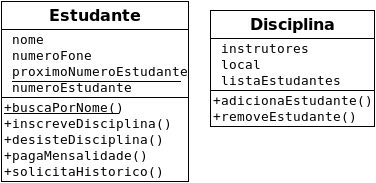
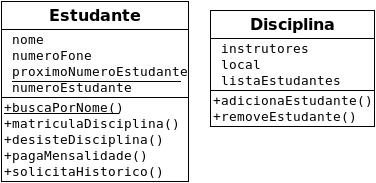
Corrigindo erros.

Changed region(s): [[0.0293, 0.6284, 0.4681, 0.7104]]

diff --git a/oo_concepts.tex b/oo_concepts.tex
@@ -41,13 +41,6 @@
 }
 \local{Brasil}
 \data{2018, v-0.0.0}
-% ---
-
-% ---
-% Configurações de aparência do PDF final
-
-% alterando o aspecto da cor azul
-%\definecolor{blue}{RGB}{41,5,195}
 
 % informações do PDF
 \makeatletter
@@ -57,7 +50,7 @@
 %		pdfauthor={\@author},
 %    		pdfsubject={Conceitos básicos de OO},
 %	    	pdfcreator={PDFLaTeX with abnTeX2},
-%		pdfkeywords={OO}{Scott Ambler}{UML}, 
+%		pdfkeywords={OO}{Scott Ambler}{UML}{Java EE}, 
 %		colorlinks=true,       		% false: boxed links; true: colored links
 %    		linkcolor=blue,         % color of internal links
 %    		citecolor=blue,        	% color of links to bibliography
@@ -69,18 +62,15 @@
 % --- 
 
 \makeindex
-% ---
 
-% ---
 % Altera as margens padrões
 % ---
 \setlrmarginsandblock{2cm}{2cm}{*}
 \setulmarginsandblock{2cm}{2cm}{*}
 \checkandfixthelayout
-% ---
 
 % O tamanho do parágrafo é dado por:
-\setlength{\parindent}{1.3cm}
+\setlength{\parindent}{1.0cm}
 
 % Controle do espaçamento entre um parágrafo e outro:
 \setlength{\parskip}{0.2cm}  % tente também \onelineskip
@@ -99,10 +89,11 @@
 % resumo em português
 \begin{resumoumacoluna}
 Este texto objetiva introduzir alguns dos principais conceitos da tecnologia Orientada a Objetos, OO.
-O texto é fortemente baseado no capítulo 2 do livro \cite{Ambler:TOP:3ed}, com acréscimos baseados em \cite{uml:j2ee}.
+O texto é fortemente baseado no capítulo 2 do livro \cite{Ambler:TOP:3ed}, com acréscimos baseados em \cite{uml:j2ee} e outros textos.
+
 \vspace{\onelineskip}
 \noindent
- \textbf{Palavras-chave}: OO. UML.
+ \textbf{Palavras-chave}: OO. UML. JEE.
 \end{resumoumacoluna}
 
 \textual
@@ -110,7 +101,7 @@ O texto é fortemente baseado no capítulo 2 do livro \cite{Ambler:TOP:3ed}, com
 \section{Introdução}
 \addcontentsline{toc}{section}{Introdução}
 
-Você precisa entender os conceitos de orientação a objetos, OO, antes de aplicá-los com sucesso no desenvolvimento de sistemas. Porque as técnicas OO emergiram, em parte, de áreas da engenharia de software, inteligência artificial e modelagem da informação, muitas dessas técnicas podem parecer já familiares. Não permita que isto o torne complacente -- você ainda terá de compreender vários conceitos novos.
+Você precisa entender os conceitos de orientação a objetos, OO, antes de aplicá-los com sucesso no desenvolvimento de sistemas. Como as técnicas OO emergiram, em parte, de áreas da engenharia de software, inteligência artificial e modelagem da informação, muitas dessas técnicas podem parecer já familiares. Não permita que isto o torne complacente -- você ainda terá de compreender vários conceitos novos.
 
 Neste trabalho veremos:
 
@@ -132,12 +123,12 @@ Neste trabalho veremos:
 \end{itemize}
 
 \subsection{Uma rápida introdução aos conceitos de OO}
-Veremos nesta seção os conceitos fundamentais das técnicas de desenvolvimento OO. Programadores experientes com tecnologias estruturadas já conhecem alguns destes conceitos, outros são novos. Por exemplo, conceitos que estão no núcleo de OO como encapsulamento, acoplamento e coesão vêm da engenharia de software. Estes conceitos são importantes porque eles revelam boas práticas de projeto independentemente da tecnologia que está sendo usada. Não se engane, entretanto, não é porque você já viu alguns dos conceitos e os pratica que você já está fazendo OO, você apenas está realizando bons projetos. Enquanto fazer bons projetos é uma grande parte de orientação a objetos, ainda há muito mais.
+Veremos nesta seção os conceitos fundamentais das técnicas de desenvolvimento OO. Programadores experientes com tecnologias estruturadas já conhecem alguns destes conceitos, outros são novos. Por exemplo, conceitos que estão no núcleo de OO como encapsulamento, acoplamento e coesão vêm da engenharia de software. Estes conceitos são importantes porque eles revelam boas práticas de projeto independentemente da tecnologia que está sendo usada. Não se engane, entretanto, não é porque você já viu alguns dos conceitos e os pratica que você já está fazendo OO, entretanto, você já está realizando bons projetos. Enquanto fazer bons projetos é uma grande parte da orientação a objetos, ainda há muito mais.
 
 Conceitos de OO parecem muito simples. Não se engane. Os conceito em que se baseiam as técnicas estruturadas também pareciam simples, mas todos nós, programadores experientes, sabemos que o desenvolvimento estruturado é na verdade difícil. Assim como havia mais do que uns poucos conceitos simples no paradigma estruturado, há mais coisas no paradigma OO. Assim como leva tempo para se tornar bom no desenvolvimento estruturado, também leva tempo para se tornar um bom desenvolvedor OO. Para lhe dar um gostinho do conteúdo deste artigo, os conceitos e termos que serão apresentados são resumidos na tabela \ref{tab:concOO}.
 
 \begin{longtable}[l]{p{4.6cm}p{11.1cm}}
-\caption[Conceitos OO]{Um resumo dos conceitos e termos da Orientação a Objetos}
+\caption[Conceitos OO]{Conceitos e termos da Orientação a Objetos}
 \label{tab:concOO}\\
 
 \multicolumn{1}{c}{\textbf{Termo}} & \multicolumn{1}{c}{\textbf{Descrição}} \\
@@ -172,11 +163,11 @@ Colaboração & Classes que trabalham juntas (colaboram) para cumprir as suas re
 Componente & Uma unidade coesa de funcionalidade que pode ser desenvolvida, entregue e composta por outros componentes para construir uma unidade maior\\
 Composição & Uma forma forte de agregação na qual o \emph{todo} é completamente responsável pelas suas partes e cada objeto \emph{parte} está associado apenas a um objeto \emph{completo}\\
 Encapsulamento & O agrupamento de conceitos relacionados num único item, tal como uma classe ou um componente\\
-Estereótipo & Um uso comum de  um elemento de modelagem\\
-Herança & Relacionamento definido por \emph{é um} ou \emph{é como}\\
+Estereótipo & Um uso comum de um elemento de modelagem\\
+Herança & Relacionamento definido por \emph{é um} ou \emph{é como} (ou \emph{parece com}\\
 Herança múltipla & A herança direta de mais de uma classe\\
 Herança simples & A herança direta de apenas uma classe\\
-Hierárquia de herança & Um conjunto de classes relacionadas por herança\\
+Hierárquia de heranças & Um conjunto de classes relacionadas por heranças\\
 Instância & Um objeto que é um exemplo de uma classe específica\\
 Instanciar & Criar objetos a partir da definição de classes\\
 Interface & Uma coleção de uma ou mais assinaturas de operações que define um conjunto coeso de comportamentos\\
@@ -186,13 +177,13 @@ Método & Um processo implementado por uma classe que realiza uma ação de valo
 Objeto & Uma pessoa, lugar, coisa, evento, conceito, tela ou relatório baseado numa definição de classe\\
 Objeto persistente & Um objeto salvo numa memória permanente\\
 Objeto transitório & Um objeto não salvo numa memória permanente\\
-Ocultação de informação & A restrição a acesso externo de atributos\\
+Ocultação de informação & A restrição ao acesso externo de atributos\\
 Opcionalidade & O conceito de \emph{Você precisa ter isto?}\\
 Padrão & Uma solução reusável para um problema comum levando em conta forças relevantes\\
 Persistência & O armazenamento de objetos em memória permanente, por exemplo, em arquivos, bancos de dados, etc.\\
 Polimorfismo & A capacidade de diferentes objetos responderem a uma mesma mensagem de maneiras diferentes, permite que um objeto interaja com um outro sem conhecer o seu tipo exato\\
 Propriedade & Em UML 2, um valor nomeado (com nome), por exemplo, atributos e associações, inclusive composição, denotando uma característica de um elemento (tal como, uma classe, ou um componente). Em C\#, a combinação de um atributo com seus getter e setter \\
-Refatoração & Modificar a implementação e/ou a definição de componentes sem afetar outros componentes \\
+Refatoração & Modificar a implementação e/ou a definição de componentes sem afetar outros componentes de um sistema já em funcionamento\\
 Sobreescrita & Redefinir atributos e/ou métodos em subclasses tais que eles sejam diferentes da definição na superclasse\\
 Subclassse & Uma classe que herda de uma outra\\
 Superclase & Uma classe da qual uma outra herda.\\
@@ -215,7 +206,9 @@ Entender os 14 diagramas de UML 2.5 ilustrados na figura \ref{fig:uml14dia} e re
 
 \begin{description}
 \item[\emph{Diagramas de Comportamento}:] Este é o tipo de diagrama que representa características comportamentais de um sistema ou processo de negócio. Isto inclui diagramas de atividade, máquina de estado e caso de uso, assim como os 4 diagramas de interação.
+
 \item[\emph{Diagrams de Interação}:] Este é um subconjunto de diagramas comportamentais que enfatizam a interação entre objetos. Isto inclui os diagramas de comunicação, visão simplificada de interação, sequência e temporização.
+
 \item[\emph{Diagramas Estruturais}:] Este tipo de diagrama representa os elementos estáticos de uma especificação que não mudam com o tempo. Isto inclui os diagramas de classe, estrutura composta, componente, distribuição (\textit{deployment}), objetos, pacotes e perfil.
 \end{description}
 
@@ -235,7 +228,7 @@ Entender os 14 diagramas de UML 2.5 ilustrados na figura \ref{fig:uml14dia} e re
 \endfirsthead
 
 \multicolumn{2}{c}{{\bfseries \tablename\ \thetable{} -- continuação da página anterior}} \\
-\multicolumn{1}{c}{\textbf{Termo}} & \multicolumn{1}{c}{\textbf{Descrição}} \\
+\multicolumn{1}{c}{\textbf{Diagrama}} & \multicolumn{1}{c}{\textbf{Descrição}} \\
 \midrule
 \endhead
 
@@ -297,7 +290,7 @@ Quando você define uma classe, você deve definir os atributos que ela tem, ass
 \end{center}
 \end{figure}
 
-A definição de um método é mais simples: você define a lógica para ele, do mesmo modo que você codifica uma função ou um procedimento. Estou usando o termo \emph{método} diferentemente do que a UML usa -- o que estou mostrando, na verdade, são as operações da classe e os métodos são as implementações dessas operações. Esta visão de método é consequência de ter programado bastante em Smalltalk e Smalltalk usa o termo método dessa maneira. Não se preocupe com isto, a terminologia de objetos é notoriamente inexata. Mais para a frente detalharei melhor a especificação de métodos. Ao vermos o conceito de colaboração, você verá que colaboração é feita exclusivamente através de métodos. Por ora, retenha que métodos fazem estas duas coisas: eles retornam um valor e/ou eles fazem alguma coisa, isto é, eles provocam um efeito de borda.
+A definição de um método é mais simples: você define a lógica para ele, do mesmo modo que você codifica uma função ou um procedimento. O termo \emph{método} é usado diferentemente de como a UML usa -- o que está sendo mostrado, na verdade, são as operações da classe e os métodos são as implementações dessas operações. Esta visão de método é consequência da influência do Smalltalk, que usa o termo método dessa maneira. Não se preocupe com isto, a terminologia de objetos é notoriamente inexata. Mais para a frente detalharemos melhor a especificação de métodos. Ao vermos o conceito de colaboração, você verá que colaboração é feita exclusivamente através de métodos. Por ora, retenha que métodos fazem estas duas coisas: eles retornam um valor e/ou eles fazem alguma coisa, isto é, eles provocam um efeito de borda. Em computação, efeito de borda (\emph{side effect}) significa que uma modificação é realizada por este método na memória e esta modificação é visível por outros métodos, isto é, fora deste método.
 
 \begin{figure}[h]
 \begin{center}
@@ -315,11 +308,11 @@ A definição de um método é mais simples: você define a lógica para ele, do
 
 Na figura \ref{fig:obj2}, você vê dois tipos diferentes de objetos: um \textit{estudante} e uma \textit{disciplina}. Ambos objetos, sabem e fazem algumas coisas e você deseja registrar isto nos seus modelos, como você pode observar na figura \ref{fig:class1}. Estou usando a notação de classe com 3 seções neste caso: a seção do topo para o nome, a seção do meio para a lista dos atributos e a seção de baixo lista os métodos.
 
-A figura \ref{fig:class1} expõe 2 tipos diferentes de atributos: atributos de instância que são aplicáveis a um único objeto e atributos estáticos que são apicáveis a todas as instâncias de uma classe. Atributos estáticos têm o nome sublinhado, atributos de instância não são sublinhados. Por exemplo, \emph{nome} é um atributo de instância na classe Estudante. Cada estudante individual tem um nome, por exemplo, um estudante tem como nome ``José da Silva'', enquanto uma outra estudante pode ter o nome ``Maria de Oliveira''. Pode até acontecer de dois estudantes diferentes terem o mesmo nome, embora sejam duas pessoas diferentes.
+A figura \ref{fig:class1} expõe 2 tipos diferentes de atributos: atributos de instância que são aplicáveis a um único objeto e atributos estáticos que são aplicáveis a todas as instâncias de uma classe. Atributos estáticos têm o nome sublinhado, atributos de instância não são sublinhados. Por exemplo, \emph{nome} é um atributo de instância na classe Estudante. Cada estudante individual tem um nome, por exemplo, um estudante tem como nome ``José da Silva'', enquanto uma outra estudante pode ter o nome ``Maria de Oliveira''. Pode até acontecer de dois estudantes diferentes terem o mesmo nome, embora sejam duas pessoas diferentes.
 
 Por outro lado, \emph{proximoNumeroEstudante} é um atributo estático (também chamado de atributo da classe) que é aplicável à classe Estudante, não especificamente a uma instância determinada. Este atributo é usado para guardar qual é o valor que será usado como número de estudante pelo próximo estudante a ser cadastrado. Quando um novo estudante ingressa na escola, seu número de estudante é dado pelo valor atual de \emph{proximoNumeroEstudante}, que será incrementado para garantir que o número de todos os estudantes é único.
 
-De modo similar, existe o conceito de método de instância e método estático (ou de classe): Métodos de instância operam sobre uma única instância, enquanto métodos estáticos operam potencialmente sobre \textit{todas} as instâncias de uma classe. \footnote{Um método estático não precisa de uma instância para operar, então ele pode ser executado mesmo se nenhuma instância ainda foi criada. Outro cuidado que novatos devem ter, é que na implementação de um método de classe não é possível acessar um atributo de instância, pois ele pode não existir, ou podem haver múltiplos deles, um para cada instância.} Na figura \ref{fig:class1}, veja que na classe \emph{Estudante} os métodos \emph{inscreveDisciplina} e \emph{desisteDisciplina} são métodos de instância, coisas que um estudante individual faria. Ela também tem um método estático \emph{buscaPorNome}, que fornece o comportamento de procurar os estudantes cujo nome atendem um critério de busca, é um método que opera sobre todas as instâncias da classe.
+De modo similar, existe o conceito de método de instância e método estático (ou de classe): Métodos de instância operam sobre uma única instância, enquanto métodos estáticos operam potencialmente sobre \textit{todas} as instâncias de uma classe. \footnote{Um método estático não precisa de uma instância para operar, então ele pode ser executado mesmo se nenhuma instância ainda foi criada. Outro cuidado que novatos devem ter, é que na implementação de um método de classe não é possível acessar um atributo de instância, pois ele pode não existir, ou podem haver múltiplos deles, um para cada instância.} Na figura \ref{fig:class1}, veja que na classe \emph{Estudante} os métodos \emph{matriculaDisciplina} e \emph{desisteDisciplina} são métodos de instância, coisas que um estudante individual faria. Ela também tem um método estático \emph{buscaPorNome}, que fornece o comportamento de procurar os estudantes cujo nome atendem um critério de busca, é um método que opera sobre todas as instâncias da classe.
 
 \section{Abstração, Encapsulamento e Ocultação de Informação}
 
@@ -345,13 +338,13 @@ Para simplificar a manutenção de suas aplicações, você quer restringir o ac
 
 \section{Herança}
 
-Similaridades sempre existem entre classes diferentes. Duas ou mais classes frequentemente compartilham os mesmos atributos e/ou mesmos métodos. Porque você não quer ter de reescrever o mesmo código repetidas vezes, você deseja um mecanismo que tire vantagem destas semelhanças. Herança é este mecanismo. Herança modela os relacionamentos" é um" e "parece com", o que permite que você reuse dados e códigos existentes facilmente.
+Similaridades sempre existem entre classes diferentes. Duas ou mais classes frequentemente compartilham os mesmos atributos e/ou mesmos métodos. Porque você não quer ter de reescrever o mesmo código repetidas vezes, você deseja um mecanismo que tire vantagem destas semelhanças. Herança é este mecanismo. Herança modela os relacionamentos ``é um'' e ``é como'', o que permite que você reuse dados e códigos existentes facilmente.
 
-Por exemplo, estudantes têmn nomes, endereços e números de telefone e eles dirigem veículos. Ao mesmo tempo, professores também têm nomes, endereços e números de telefones e dirigem veículos. Sem dúvida, você pode desenvolver as classes para estudantes e professores e fazê-las executarem. De fato, você poderia até desenvolver a classe \emph{Estudante} primeiro e, quando ela estiver rodando, fazer uma cópia dela, chamá-la de \emph{Professor} e fazer as modificações necessárias. Enquanto, esta é uma maneira muito direta de resolver o problema, ela não é perfeita. E se houver um erro no código original do estudante? Agora, você tem de corrigir o erro em dois lugares, o dobro do trabalho. O que acontece se você precisar mudar a maneira de lidar com o nome, digamos que no lugar de ter no máximo 30 caracteres, precisa de 40 caracteres? Agora, você tem de fazer a mesma modificação em dois lugares, o que é chato, besta e custoso (emtermos de tempo). Não seria bom se só tivesse uma cópia do código para desenvolver e fazer manutenção?
+Por exemplo, estudantes têm nomes, endereços e números de telefone e eles dirigem veículos. Ao mesmo tempo, professores também têm nomes, endereços e números de telefones e dirigem veículos. Sem dúvida, você pode desenvolver as classes para estudantes e professores e fazê-las executarem. De fato, você poderia até desenvolver a classe \emph{Estudante} primeiro e, quando ela estiver rodando, fazer uma cópia dela, chamá-la de \emph{Professor} e fazer as modificações necessárias. Enquanto, esta é uma maneira muito direta de resolver o problema, ela não é perfeita. E se houver um erro no código original do estudante? Agora, você tem de corrigir o erro em dois lugares, o dobro do trabalho. O que acontece se você precisar mudar a maneira de lidar com o nome, digamos que no lugar de ter no máximo 30 caracteres, precisa de 40 caracteres? Agora, você tem de fazer a mesma modificação em dois lugares, o que é chato, besta e custoso (emtermos de tempo). Não seria bom se só tivesse uma cópia do código para desenvolver e fazer manutenção?
 
 Isto é exatamente o que a herança se propõe a fazer. Com herança, você define uma nova classe que encapsula as similaridades entre os alunos e professores. Esta nova classe teria os atributos \emph{nome}, \emph{endereço} e \emph{numeroTelefone} e o método \emph{dirigeVeiculo}. Como você precisa dar nome a todas as suas classes, você precisa se perguntar o que esta coleção de dados e funcionalidade descrevem. Neste caso, acredito que o nome \emph{Pessoa} cabe bem.
 
-Quando você tiver a classe \emph{Pessoa} definida, você fará com que \emph{Estudante} e \emph{Professor} herdem dela. Você pode dizer que \emph{Pessoa} é a superclasse de \emph{Estudante} e \emph{Professor} e que \emph{Estudante} e \emph{Professor} são subclasses de \emph{Pessoa}. Tudo que uma superclasse sabe ou faz, a subclasse sabe ou faz sem que seja necessário escrever mais código. Na verdade, para este exemplo, você teria de escrever duas linhas de código, uma dizendo que \emph{Estudante} é subclasse de \emph{Pessoa} e outra dizendo que \emph{Professor} é uma subclasse de \emph{Pessoa}. Porque \emph{Pessoa} tem um nome, endereço e número de telefone, ambos, \emph{Estudante} e \emph{Professor} também têm estes atributos. Porque \emph{Pessoa} ter a capacidade de dirigir um veículo, as classes \emph{Estudante} e \emph{Professor} também têm.
+Quando você tiver a classe \emph{Pessoa} definida, você fará com que \emph{Estudante} e \emph{Professor} herdem dela. Você pode dizer que \emph{Pessoa} é a superclasse de \emph{Estudante} e \emph{Professor} e que \emph{Estudante} e \emph{Professor} são subclasses de \emph{Pessoa}. Tudo que uma superclasse sabe ou faz, a subclasse sabe ou faz sem que seja necessário escrever mais código. Na verdade, para este exemplo, você teria de escrever duas linhas de código, uma dizendo que \emph{Estudante} é subclasse de \emph{Pessoa} e outra dizendo que \emph{Professor} é uma subclasse de \emph{Pessoa}. Porque \emph{Pessoa} tem um nome, endereço e número de telefone, ambos, \emph{Estudante} e \emph{Professor}, também, têm estes atributos. Porque \emph{Pessoa} tem a capacidade de dirigir um veículo, as classes \emph{Estudante} e \emph{Professor} também têm.
 
 \subsection{Modelagem de Herança}
 
@@ -384,9 +377,9 @@ As dicas e técnicas a seguir devem lhe ajudar a aplicar hereditariedade de mane
 
 \item[Siga a regra da sentença:] Uma das frases a seguir deve ter sentido: ``Uma subclasse é um tipo da superclasse'' ou ``Uma subclasse é como uma superclasse''. Por exemplo, faz sentido dizer que um estudante é um tipo de pessoa e um dragão é como um pássaro. Não faz sentido dizer que um estudante é um tipo de veículo, ou é como um veículo, então, a classe \emph{Estudante} provavelmente não deve herdar de \emph{Veiculo}. Se nenhuma das sentenças faz sentido, então você deve ter encontrado um relacionamento de composição ou de associação.
 
-\item[Evite herança de implementação:] Desenvolvedores novatos na orientação a objetos têm uma tendência a errar na aplicação da herança, em geral num esforço para reusar tanto quanto possível (uma boa motivação). Herança é, geralmente, o conceito mais excitante do repertório de objetos deles, então eles o usam tanto quanto podem. O problema é com o que chama se de herança de implementação ou de conveniência: A aplicação da herança quando a regra da sentença não se aplica e a única justificativa é a de que a subclasse precisa de uma ou mais características da superclasse, a aplicação da herança é mais conveniente do que \textit{refatorar} suas classes. Uma boa regra é reconsiderar a aplicação de herança com ``é como'', porque esta é uma justificativa mais fraca.
+\item[Evite herança de implementação:] Desenvolvedores novatos na orientação a objetos têm uma tendência a errar na aplicação da herança, em geral, num esforço para reusar tanto quanto possível (uma boa motivação). Herança é o conceito mais excitante do repertório de objetos deles, então eles o usam tanto quanto podem. O problema é com o que se chama de herança de implementação ou de conveniência: A aplicação da herança quando a regra da sentença não se aplica e a única justificativa é a de que a subclasse precisa de uma ou mais características da superclasse, a aplicação da herança é mais conveniente do que \textit{refatorar} suas classes. Uma boa regra é reconsiderar a aplicação de herança com ``é como'', porque esta é uma justificativa mais fraca.
 
-\item \textbf{Herda tudo.} A subclasse deve herdar tudo da superclasse, este conceito é chamado de \emph{herança pura}. Se não, o código torna-se mais difícil de entender e de fazer a manutenção. Por exemplo, digamos que a classe \emph{B} herda de \emph{A}. Para entender \emph{B}, você precisa entender o que é \emph{A} e as características que são acrescentadas em \emph{B}. Se você começar a remover funcionalidade, você precisa entender também o que \emph{B} \textbf{não é}. Isto é muito trabalho e logo se torna um pesadelo para fazer a manutenção.
+\item[Herda tudo:] A subclasse deve herdar tudo da superclasse, este conceito é chamado de \emph{herança pura}. Se não, o código torna-se mais difícil de entender e de fazer a manutenção. Por exemplo, digamos que a classe \emph{B} herda de \emph{A}. Para entender \emph{B}, você precisa entender o que é \emph{A} e as características que são acrescentadas em \emph{B}. Se você começar a remover funcionalidade, você precisa entender também o que \emph{B} \textbf{não é}. Isto é muito trabalho e logo se torna um pesadelo para fazer a manutenção.
 
 \end{description}
 
@@ -418,14 +411,14 @@ No Antes: da figura \ref{fig:uml4}, você quer criar uma nova classe \emph{Draga
 
 É importante perceber que a regra da sentença não é perfeita. Por exemplo, faz sentido dizer que uma sequóia é como um arranha-céu já que ambos são altos, têm raízes no chão e balançam ao vento. Entretanto, eles não devem compartilhar uma relação de herança. Também faz sentido dizer que um faixa preta é um artista de artes marciais, mas não faz sentido fazer uma classe \emph{Roupa} herda da classe \emph{Pessoa}.
 
-Observe que listei o método \emph{come()} em \emph{Dragao}. Embora todos os três tipos de criaturas comam, eles comem cada um de maneira diferente. Pássaros comem sementes, lagartos comem insetos e dragões comem cavaleiros em armaduras relunzentes. Porque a maneira de comer dos dragões é diferente da do pássaro e do lagarto, é necessário redefinir (sobreescrever) a definição do método \emph{come()}. A ideia geral é que uma subclasse precisa sobreescrever um atributo ou um método sempre que ela usa aquele dado ou executa aquele método de uma maneira diferente da sua superclasse\footnote{Das principais linguagens que suportam orientação a objetos, apenas o C++ possui herança múltipla, ela raramente é realmente necessária -- programação de jogos é um dos poucos domínios em que herança múltipla é necessária.}.
+Observe que o método \emph{come()} foi listado na classe \emph{Dragao}. Embora todos os três tipos de criaturas comam, eles comem cada um de maneira diferente. Pássaros comem sementes, lagartos comem insetos e dragões comem cavaleiros em armaduras relunzentes. Porque a maneira de comer dos dragões é diferente da do pássaro e do lagarto, é necessário \textit{redefinir} (sobreescrever) a definição do método \emph{come()}. A ideia geral é que uma subclasse precisa sobreescrever um atributo ou um método sempre que ela usa aquele dado ou executa aquele método de uma maneira diferente da sua superclasse\footnote{Das principais linguagens que suportam orientação a objetos, apenas o C++ possui herança múltipla, ela raramente é realmente necessária -- programação de jogos é um dos poucos domínios em que herança múltipla pode ser necessária.}.
 
 \subsection{Classes Abstratas e Concretas}
 
 Na figura \ref{fig:uml3}, a classe \emph{Veiculo} está marcada como abstrata (o nome está em itálico, em versões mais antigas de UML, você poderia usar a restrição {abstract}), enquanto \emph{Aviao} e \emph{Carro} não são. Dizemos que 
 \emph{Veiculo} é uma classe abstrata, enquanto \emph{Aviao} e \emph{Carro} são classes concretas. A diferença principal entre classes abstratas e concretas é que objetos podem ser instanciados (criados) de classes concretas, mas não de classes abstratas. Por exemplo, no domínio do seu problema, você tem aviões e carros, mas não tem nada que é apenas um veículo (se algo não é um avião ou um carro, você não se interessa por ele). Isto significa que seu software instanciará objetos aviões e carros, mas não objetos veículos. Classes abstratas são modeladas quando você precisa criar uma classe que implementa características comuns a duas ou mais classes.
 
-Não estou tão preocupado se uma classe é abstrata quando estou modelando, assumo que farei a coisa certa quando vier a hora de implementar a classe, que numa equipe de projeto ágil pode ser minutos depois de modelá-la. Usar itálico para indicar que uma classe é abstrata é uma escolha infeliz do pessoal da OMG. Como Fowler (2004) disse, quando você está modelando num quadro negro ou num papel (lembre-se que na prática de modelagem ágil: \textit{use as ferramentas mais simples}), você precisa usar a notação antiga, {abstract}. Se você realmente pretende que uma classe seja abstrata, a maioria das linguagens OO permitem que você declare que uma classe é abstrata e nunca poderá ser instanciada.
+Não estamos tão preocupado se uma classe é abstrata quando estamos modelando, assumimos que faremos a coisa certa quando vier a hora de implementar a classe, o que numa equipe de projeto ágil pode ser minutos depois de modelá-la. Usar itálico para indicar que uma classe é abstrata é uma escolha infeliz do pessoal da OMG. Como \citeonline{uml:destilado} disse, quando você está modelando num quadro negro ou num papel (lembre-se que na prática de modelagem ágil: \textit{use as ferramentas mais simples}), você precisa usar a notação antiga, \{abstract\}, ou <<abstract>>. Se você realmente pretende que uma classe seja abstrata, a maioria das linguagens OO permitem que você declare que uma classe é abstrata e nunca poderá ser instanciada.
 
 \section{Persistência}
 
@@ -437,20 +430,22 @@ As seguintes dicas e técnicas devem ajudar a entender e aplicar o conceito de p
 
 \begin{enumerate}
 \item \textbf{Classes do negócio/ do domínio são geralmente persistentes.} Você  naturalmente precisa manter um registro permanente (ou persistente) de instâncias de classes do mundo real como \emph{Estudante}, \emph{Professor} e \emph{Disciplina}.
-\item \textbf{Classes da interface usuário são geralmente transitórias.} Classes da interface usuário (telas e relatórios) são em geral transitórios. Telas são criadas e exibidas quando necessário e, então, quando não estão mais emuso, elas são destruidas (removidas da memória). Objetos relatórios são criados, eles adquirem os dados de que precisam, manipulam os dados e imprimem os dados. Depois disto, o objeto relatório também é destruido. Note que às vezes você pode precisar manter um registro (log) da impressão do relatório e de quem mandou fazer a impressão, o registro (log) neste caso deve ser permanente.
+
+\item \textbf{Classes da interface usuário são geralmente transitórias.} Classes da interface usuário (telas e relatórios) são em geral transitórios. Telas são criadas e exibidas quando necessário e, então, quando não estão mais em uso, elas são destruidas (removidas da memória). Objetos relatórios são criados, eles adquirem os dados de que precisam, manipulam os dados e imprimem os dados. Depois disto, o objeto relatório é destruido. Note que às vezes você pode precisar manter um registro (log) da impressão do relatório e de quem mandou fazer a impressão, o registro (log) neste caso deve ser permanente.
+
 \item \textbf{Você precisa armazenar tanto os atributos quanto as associações.}
 Quando um objeto é escrito no disco, você obviamente precisa armazenar os valores dos seus atributos. Entretanto, você também deve armazenar informações sobre seus relacionamentos/associações com os quais o objeto está envolvido. Por exemplo, Bia está cursando Bio-medicina e Enfermagem, então você precisa se assegurar que quando você for armazenar o objeto Bia no disco, o software vai registrar que ela está matriculada nestas duas disciplinas.
 \end{enumerate}
 
 \section{Relacionamentos}
 
-No mundo real, os objetos têm relacionamentos uns com os outros. Os relacionamentos entre os objetos são importantes porque nos ajudam a definir como os objetos interagem uns com os outros. Por exemplo, estudantes \textit{se matriculam} em disciplinas, professores \textit{ensinam} disciplinas, criminosos \textit{roubam} bancos, políticos \textit{beijam} bebes e capitães \textit{comandam} espaçonaves. Se matriculam, ensinam, roubam, beijam e comandam são todos verbos que definem associações entre objetos. Você quer identificar e potencialmente documentar estes relacionamentos; assim, você pode ganhar um melhor entendimento de como os objetos interagem uns com os outros.
+No mundo real, os objetos têm relacionamentos uns com os outros. Os relacionamentos entre os objetos são importantes porque nos ajudam a definir como os objetos interagem uns com os outros. Por exemplo, estudantes \textit{se matriculam} em disciplinas, professores \textit{ensinam} disciplinas, criminosos \textit{roubam} bancos, políticos \textit{beijam} bebes e capitães \textit{comandam} espaçonaves. \textit{Se matriculam}, \textit{ensinam}, \textit{roubam}, \textit{beijam} e \textit{comandam} são todos verbos que definem associações entre objetos. Você quer identificar e potencialmente documentar estes relacionamentos; assim, você pode ganhar um melhor entendimento de como os objetos interagem uns com os outros.
 
-Você não precisa apenas identificar os relacionamentos entre as classes, você deve também descrever o relacionamento. Por exemplo, não é suficiente saber que os estudantes se matriculam em disciplinas. Quantas disciplinas os estudantes podem cursar? Nenhuma, uma ou várias? Além disso, relacionamentos são ruas com circulação nos dois sentidos: Não apenas os estudantes se matriculam em disciplinas, mas também disciplinas têm estudantes. Isto leva a questões como quantos estudantes podem ser matriculados numa dada disciplina e é possível que ter uma disciplina sem nenhum estudante? Isto implica em que você deve também identificar a cardinalidade e a opcionalidade de um relacionamento. Cardinalidade representa o conceito ``quantos'', opcionalidade representa o conceito ``se você deve ter algo''. É importante observar que a UML escolheu combinar os conceitos de opcionalidade e cardinalidade num único conceito de multiplicidade.
+Você não precisa apenas identificar os relacionamentos entre as classes, você deve também descrever o relacionamento. Por exemplo, não é suficiente saber que os estudantes se matriculam em disciplinas. Quantas disciplinas os estudantes podem cursar? Nenhuma, uma ou várias? Além disso, relacionamentos são vias com circulação nos dois sentidos: Não apenas os estudantes se matriculam em disciplinas, mas também disciplinas têm estudantes matriculados. Isto leva a questões como quantos estudantes podem ser matriculados numa dada disciplina e é possível ter uma disciplina sem nenhum estudante? Isto implica em que você deve também identificar a cardinalidade e a opcionalidade de um relacionamento. Cardinalidade representa o conceito ``quantos'', opcionalidade representa o conceito ``se você deve ter algo''. É importante observar que a UML escolheu combinar os conceitos de opcionalidade e cardinalidade num único conceito de \emph{multiplicidade}.
 
 \subsubsection{Dica: Considere Opcionalidade e Cardinalidade Separadamente}
 
-Minha experiência mostra que é melhor considerar separadamente estes dois conceitos: Para cada direção de uma associação é importante se a associação deve existir (opcionalidade) e quantos podem possivelmente existir (cardinalidade)? Por exemplo, considere a associação ``ensina'' entre professores e disciplinas, devo perguntar:
+Minha experiência mostra que é melhor considerar separadamente estes dois conceitos: Para cada direção de uma associação é importante se a associação deve existir (opcionalidade) e quantos podem possivelmente existir (cardinalidade)? Por exemplo, considere a associação ``ensina'' entre professores e disciplinas, devemos perguntar:
 \begin{itemize}
 \item Um professor deve ensinar uma disciplina, ou pode haver professores que não ensinam?
 \item Quantas disciplinas um professor pode ensinar?
@@ -478,7 +473,7 @@ Uma associação é um relacionamento persistente entre duas ou mais classes ou 
 \end{figure}
 
 \begin{description}
-\item[Direcionalidade:] Setas com ponta vazada indicam a direcionalidade da associação. Quando existe uma seta, a associação é unidirecional: Ela só pode ser percorrida numa direção (na direção da seta). Quando não tem seta ou tem dupla seta, a associação é bidirecional: Ela pode ser percorrida em ambos sentidos. Embora você deva indicar com as duas setas, é prática comum deixar de colocar as setas nas associações bi-direcionais. Exemplos das duas notações para associações bidirecionais estão na figura \ref{fig:uml6}. Neste texto, adotaremos a prática da modelagem ágil -- exiba os modelos de maneira simples -- nas associações bidirecionais usaremos linhas sem setas. Minha recomendação é a de escolher uma convenção e mantê-la.
+\item[Direcionalidade:] Setas com ponta vazada indicam a direcionalidade da associação. Quando existe uma seta, a associação é unidirecional: Ela só pode ser percorrida numa direção (na direção da seta). Quando não tem seta ou tem dupla seta, a associação é bidirecional: Ela pode ser percorrida em ambos sentidos. Embora você deva indicar com as duas setas, é prática comum deixar de colocar as setas nas associações bi-direcionais. Exemplos das duas notações para associações bidirecionais estão na figura \ref{fig:uml6}. Neste texto, adotaremos a prática da modelagem ágil -- exiba os modelos de maneira simples -- nas associações bidirecionais usaremos linhas sem setas. Recomenda-se a escolha de uma convenção e mantê-la.
 
 \item[Rótulo:] O rótulo que é opcional, é tipicamente composto por uma ou duas palavras descrevendo a associação. A leitura do nome de uma classe, do rótulo e do nome da outra classe deve produzir uma frase que descreva o relacionamento, por exemplo, \emph{Professor ensina Disciplina}. Evite rótulos genéricos como \textit{tem} ou \textit{comunica com}, tanto quanto possível.
 
@@ -527,22 +522,22 @@ Observe o diagrama de classes da figura \ref{fig:uml6}, que mostra diversas clas
 \item Um empregado gerencia zero ou mais empregados (um empregado pode não ter estafe).
 \end{itemize}
 
-Diversas lições importantes estão mostradas na figura \ref{fig:uml6}. Primeiro, observe que é possível ter mais de uma associação entre duas classes: As classes \emph{Estudante} e \emph{Disciplina} têm as associações \emph{se\_matricula} e \emph{auxilia} entre elas. Você se interessa nestes dois relacionamentos entre estas classes para o seu sistema de informação da universidade, logo, você precisa modelar ambas as associações.
+Diversos pontos importantes estão mostradas na figura \ref{fig:uml6}. Primeiro, observe que é possível ter mais de uma associação entre duas classes: As classes \emph{Estudante} e \emph{Disciplina} têm as associações \emph{se\_matricula} e \emph{auxilia} entre elas. Você se interessa nestes dois relacionamentos entre estas classes para o seu sistema de informação da universidade, logo, você precisa modelar ambas as associações.
 
 Segundo, é válido que a mesma classe se envolva nas duas pontas de uma associação; Isto é chamado de associação recursiva ou auto-associação (\citeonline{uml:destilado}). Um exemplo perfeito disto é a associação \emph{gerencia} que a classe \emph{Empregado} tem consigo mesma. A maneira de ler isto é a de que um empregado qualquer pode gerenciar outros e ele, ou ela, pode ser gerenciado(a) por outro empregado.
 
-%Terceiro, algumas vezes, o sentido de uma associação é único, como pode ser visto na figura \ref{fig:uml6} pela associação \emph{preenche} entre \emph{Empregado} e \emph{Cargo}. A implicação é que o objeto empregado sabe o cargo que preenche, mas o objetos cargo não precisa saber qual empregado o está preenchendo. Esta é uma associação dita unidirecional, uma associação que só é percorrida numa única direção. Se você não tiver um requisito para que se percorra uma associação nos dois sentidos, por exemplo, cargos não precisam colaborar com objetos empregados, então use uma associação unidirecional. Veremos que associações unidirecionais requerem menos trabalho para serem implementadas.
+Terceiro, algumas vezes, o sentido de uma associação é único, como pode ser visto na figura \ref{fig:uml6} pela associação \emph{preenche} entre \emph{Empregado} e \emph{Cargo}. A implicação é que o objeto empregado sabe o cargo que preenche, mas o objeto cargo não precisa saber qual empregado o está preenchendo. Esta é uma associação dita unidirecional, uma associação que só é percorrida numa única direção. Se você não tiver um requisito para que se percorra uma associação nos dois sentidos, por exemplo, cargos não precisam colaborar com objetos empregados, então use uma associação unidirecional. Veremos que associações unidirecionais requerem menos trabalho para serem implementadas.
 
 \subsection{Modelagem do Desconhecido}
 
-\begin{figure}[b]
+Não importa o quanto é bom o trabalho que você realiza, pode-se com quase certeza absoluta garantir que você perdeu algum detalhe dos relacionamentos dos seus objetos. Então, o que pode ser feito é: \textit{Faça e torça que dê certo?} Óbvio que não. Você vai voltar aos seus usuários e perguntar para eles como estão as coisas, não? O problema é lembrar de voltar aos seus usuários. A solução: Marcar como ``desconhecido agora'' colocando um ponto de interrogação na parte do relacionamento em que você tem uma dúvida. Por exemplo, na figura \ref{fig:uml7}, você acredita que zero ou mais empregados podem preencher um cargo. Você sabe que um cargo pode não está preenchido, mas não tem certeza se um cargo pode ser preenchido por uma ou mais pessoas. Existe compartilhamento de emprego na organização? Existem cargos genéricos como Faxineiro, que é preenchido por várias pessoas? Ou é realmente, uma pessoa por cargo, como estamos mostrando atualmente? Porque você não sabe com certeza ainda, você marca o relacionamento com um ponto de interrogação, indicando que você deve retorna para ele mais tarde e checar seu ``chute educado''. Observe que UML não inclui pontos de interrogação como parte da notação, é apenas uma técnica que Ambler descobriu ser muito útil na prática -- idealmente, você não deve advinhar ou supor coisas sem falar antes com quem está adquirindo o sistema (o \textit{stockholder}), mas se você precisar, então marque sua suposição no seu trabalho e procure resolver a dúvida o quanto antes.
+
+\begin{figure}[h]
 \begin{center}
 \includegraphics[scale=0.6]{assocCls3.png} 
 \caption{Indicação de desconhecido} \label{fig:uml7}
 \end{center}
 \end{figure}
-
-Não importa o quanto é bom o trabalho que você realiza, pode-se com quase certeza absoluta garantir que você perdeu algum detalhe dos relacionamentos dos seus objetos. Então, o que pode ser feito é: Faça e torça que dê certo. Óbvio que não. Você vai voltar aos seus usuários e perguntar para eles como estão as coisas, não? O problema é lembrar de voltar aos seus usuários. A solução: Marcar como ``desconhecido agora'' colocando um ponto de interrogação na parte do relacionamento em que você tem uma dúvida. Por exemplo, na figura \ref{fig:uml7}, você acredita que zero ou mais empregados podem preencher um cargo. Você sabe que um cargo pode não está preenchido, mas não tem certeza se um cargo pode ser preenchido por uma ou mais pessoas. Existe compartilhamento de emprego na organização? Existem cargos genéricos como Faxineiro, que é preenchido por várias pessoas? Ou é realmente, uma pessoa por cargo, como estamos mostrando atualmente? Porque você não sabe com certeza ainda, você marca o relacionamento com um ponto de interrogação, indicando que você deve retorna para ele mais tarde e checar seu ``chute educado''. Observe que UML não inclui pontos de interrogação como parte da notação, é apenas uma técnica que Ambler descobriu ser muito útil na prática -- idealmente, você não deve advinhar ou supor coisas sem falar antes com quem está adquirindo o sistema, mas se você precisar, então marque sua suposição no seu trabalho e procure resolver a dúvida o quanto antes.
 
 \subsection{Como Associações São Implementadas}
 
